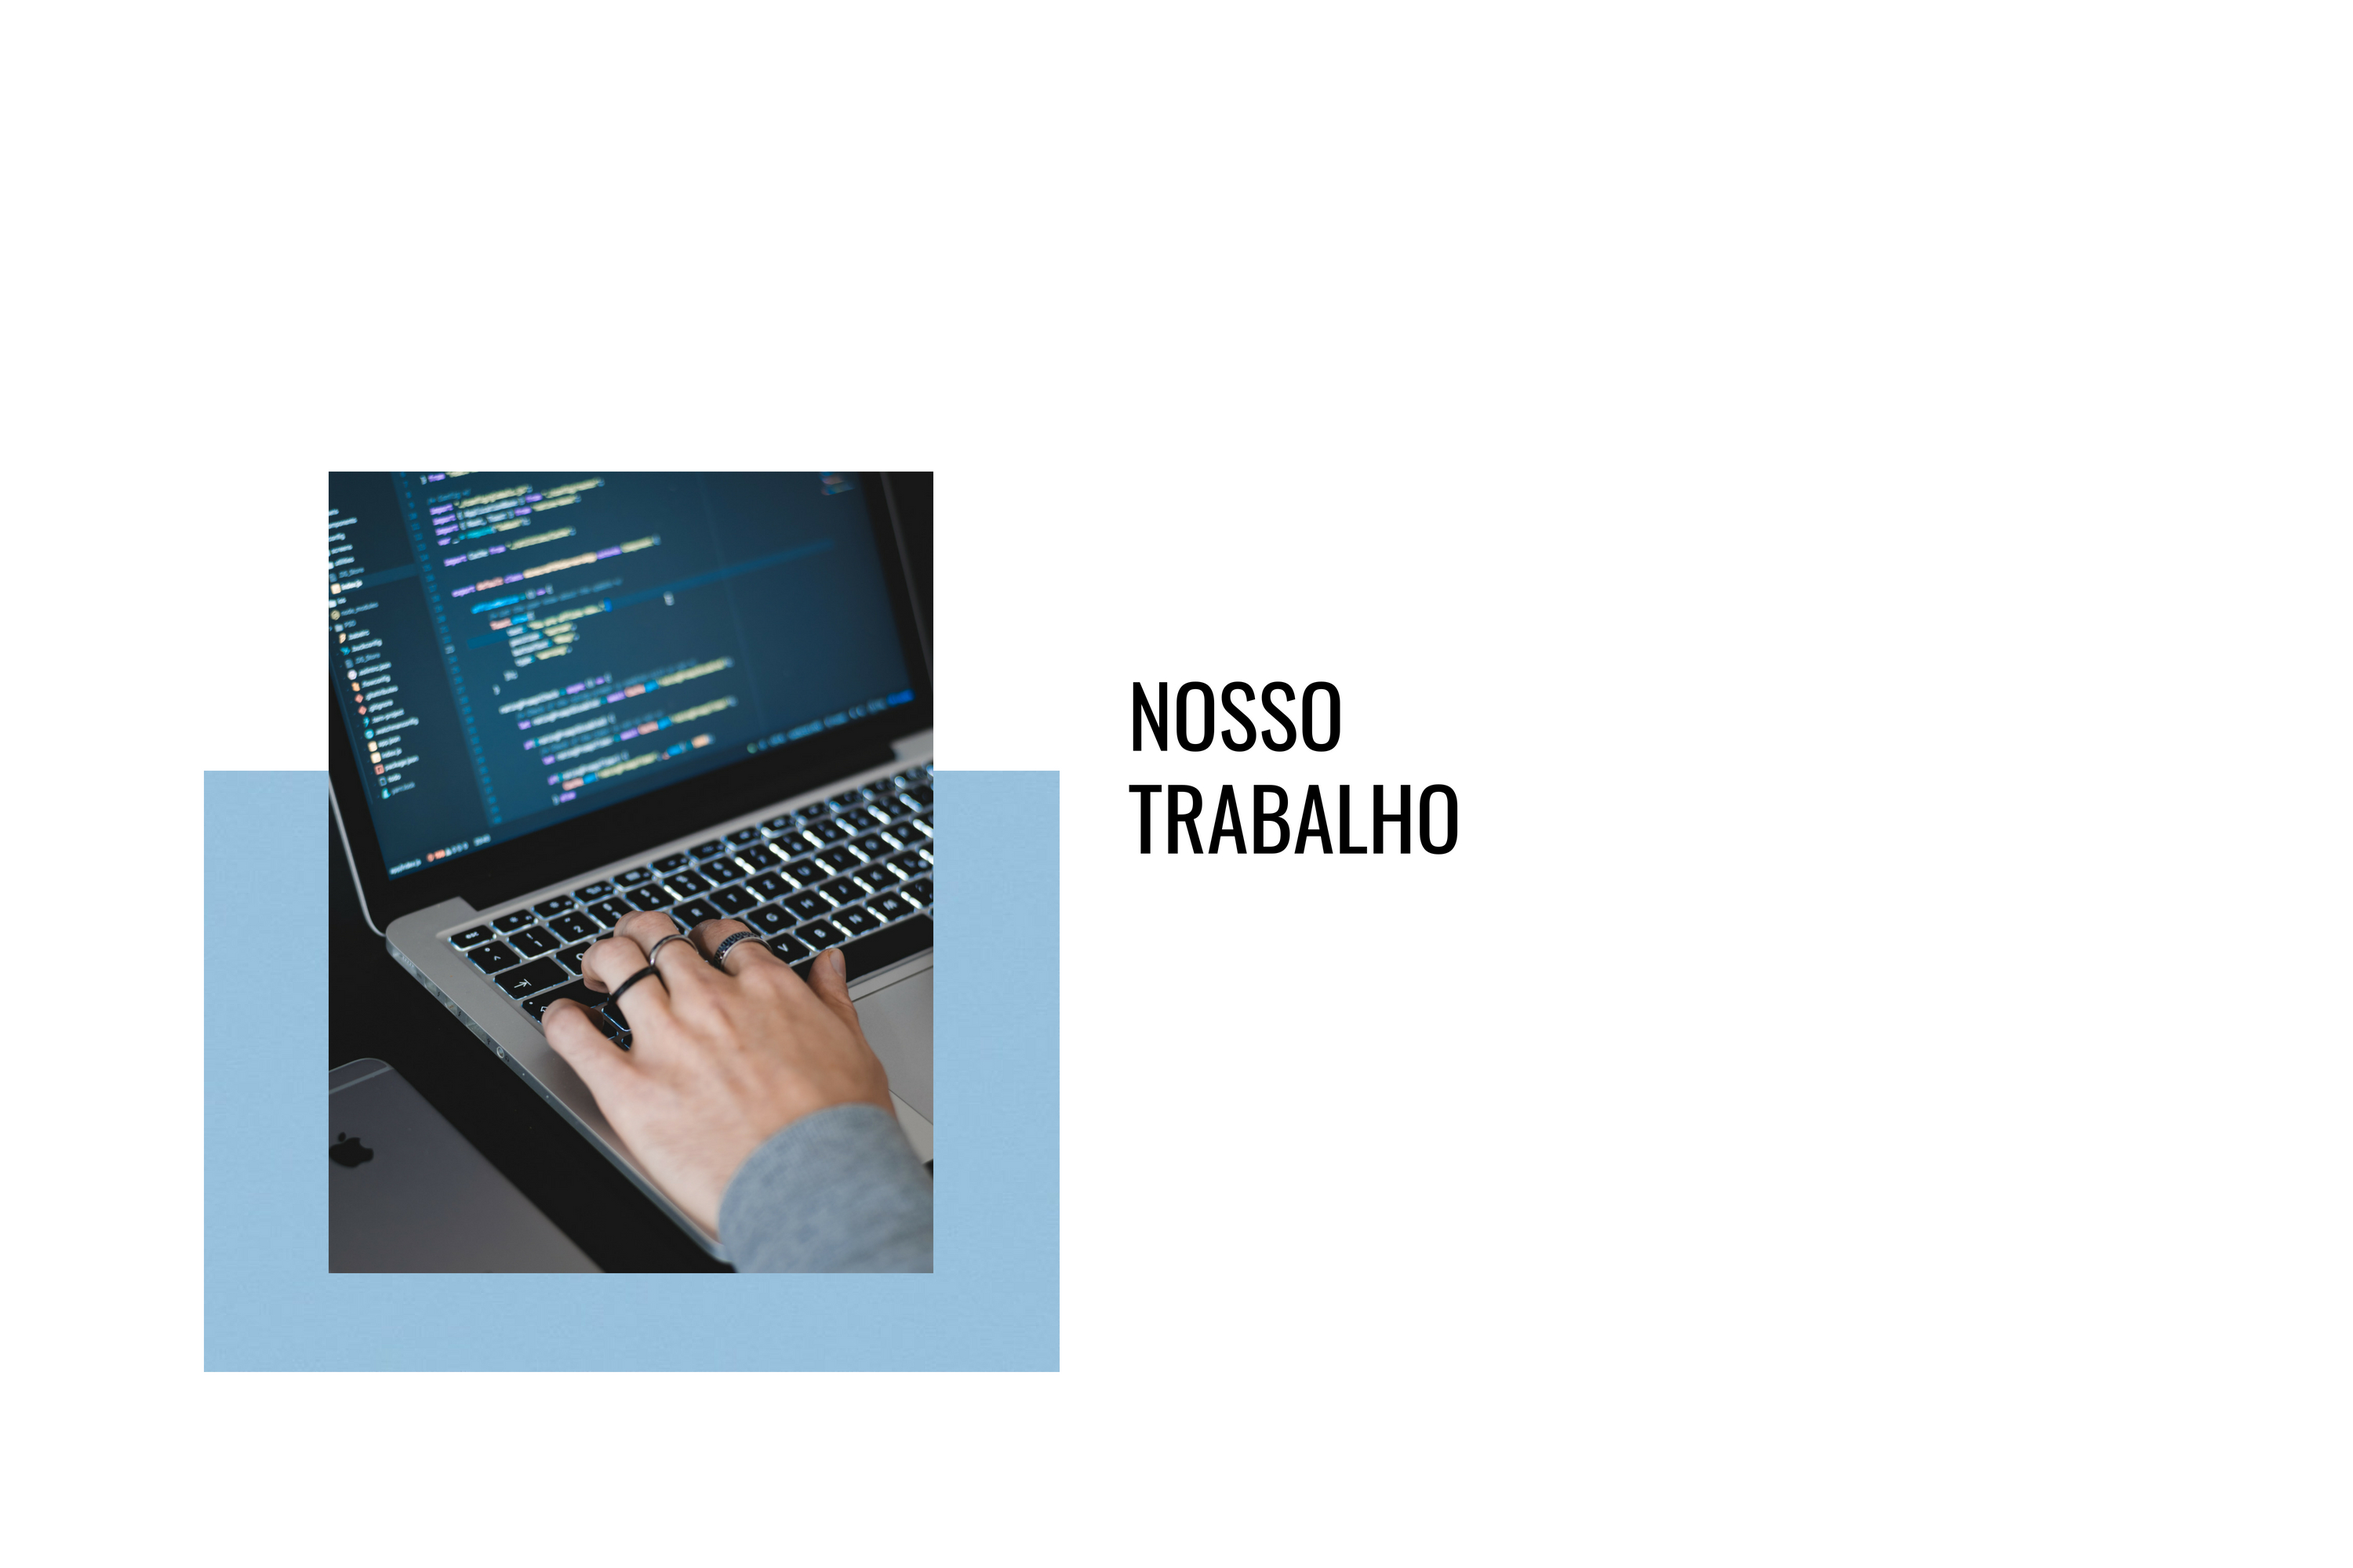
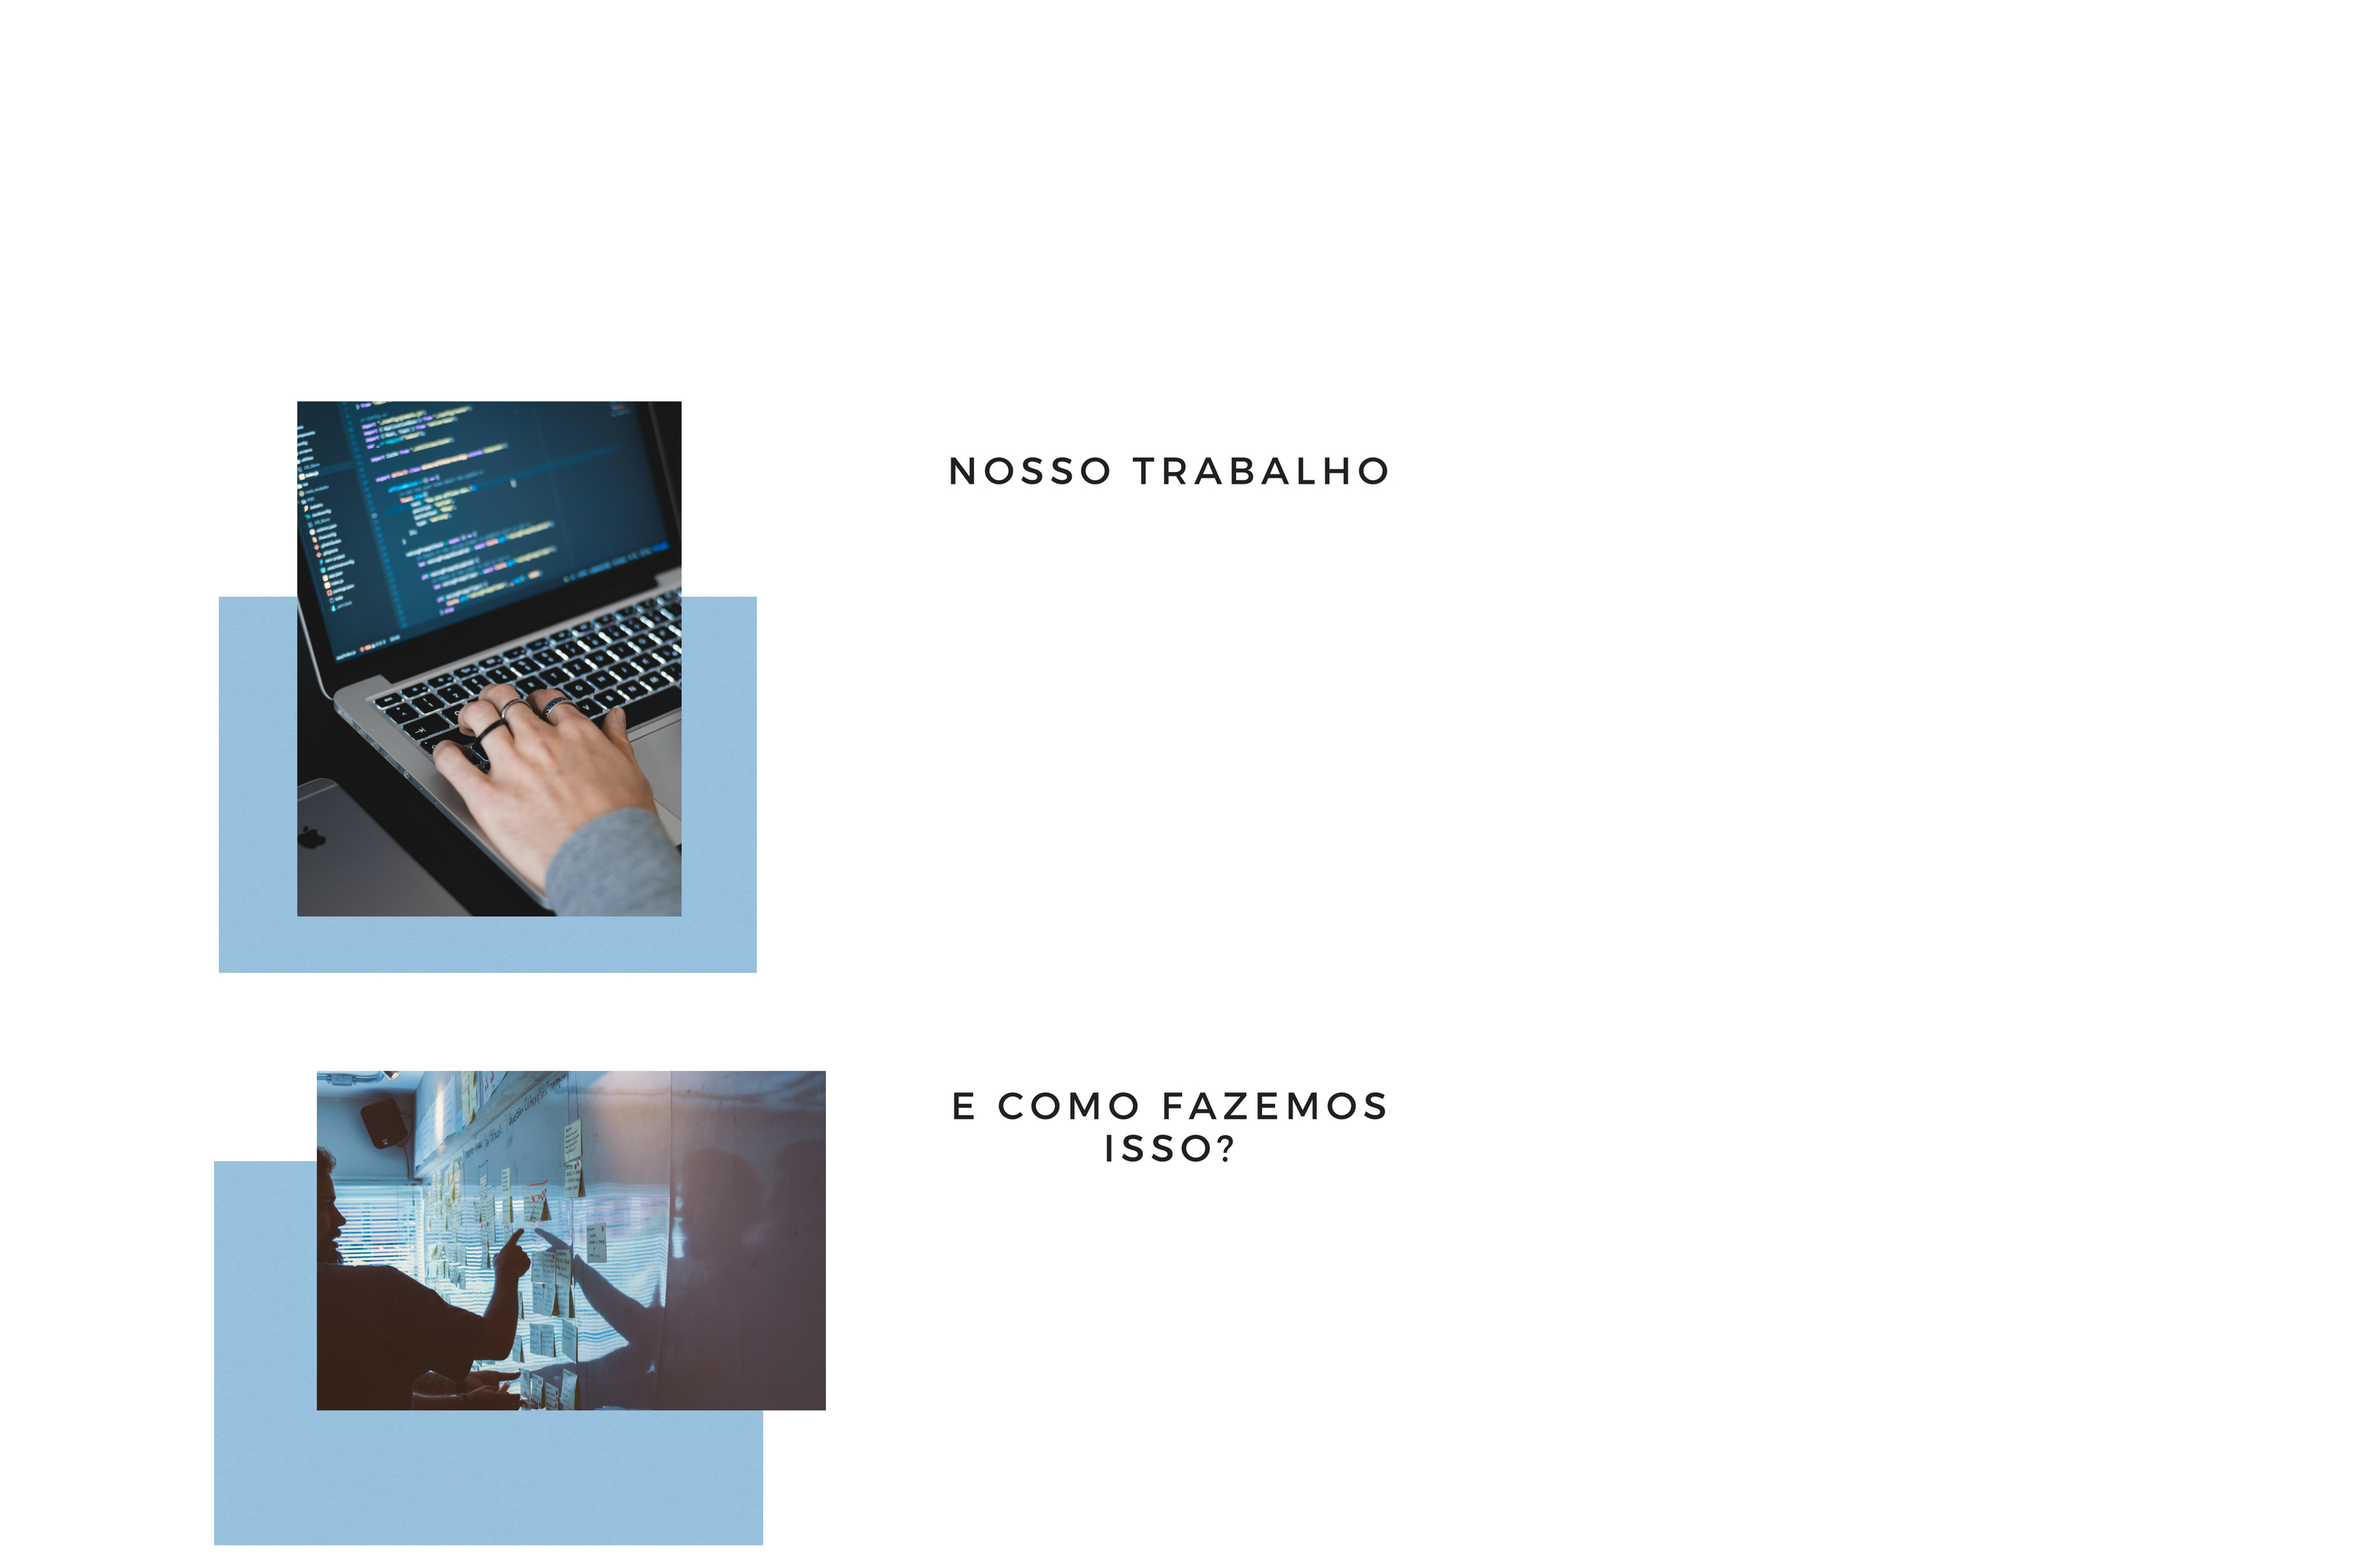
alteração no bg

Changed region(s): [[0.062, 0.248, 0.62, 0.992]]

diff --git a/static/style.css b/static/style.css
@@ -147,14 +147,15 @@ footer:nth-child(2){
 
 #quadroMenor{
     width: 770px;
-    margin-left: 458px;
+    margin-left: 590px;
     margin-top: 160px;
     color: white;
 }
 
 #quadroMenor h1{
     margin-top: 180px;
-    margin-left: 156px;
+    margin-left: 241px;
+    color: black;
 }
 
 #quadroMenor p{
@@ -190,15 +191,15 @@ footer:nth-child(2){
     display: flex;
     flex-direction: column;
     width: 396px;
-    margin-left: 25px;
+    margin-left: 109px;
     margin-top: 23px;
-    background-color: #99C0DD;
+    /* background-color: #99C0DD; */
     padding: 37px;
 }
 
 #quadroMenor1 button{
     border: 0px;
-    color: white;
+    color: black;
     font-size: 20px;
     cursor: pointer;
     margin-top: 28px;
@@ -208,7 +209,7 @@ footer:nth-child(2){
 input{
     margin-top: 10px;
     border-radius: 10px;
-    padding: 5px;
+    padding: 5px;           
 }
 
 #calendario{
@@ -216,8 +217,8 @@ input{
 }
 
 #parallax4{
-    background-image: url('./pag3.jpg');
-    height: 900px;
+    background-image: url('./bgagenda.jpg');
+    height: 850px;
     background-position: center;
     background-repeat: no-repeat;
     background-size: cover;
@@ -238,8 +239,14 @@ input{
 
 #box div{
     width: 428px;
-    margin-top: 170px;
-    margin-left: 607px;
-    background-color: #99C0DD;
+    margin-top: -357px;
+    margin-left: 501px;
+    /* background-color: #99C0DD; */
     padding: 40px;
+}
+#boxx{
+    width: 428px;
+    margin-top: -210px;
+    margin-left: 544px;
+
 }
